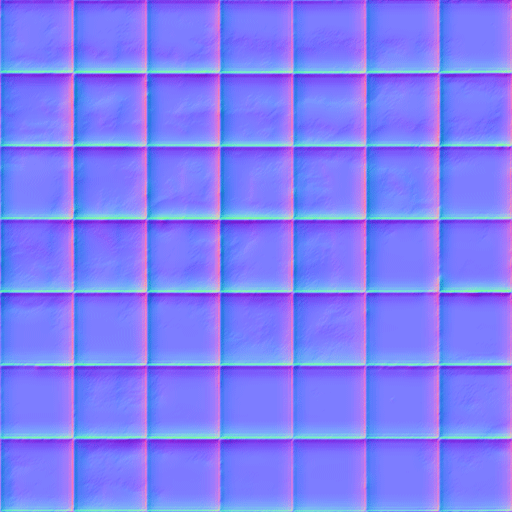
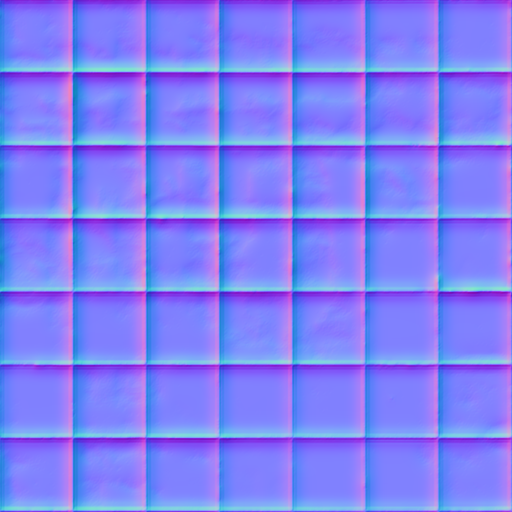
Texturing and lighting work now but the lighting calculation is wrong and was wrong in the old shader.

diff --git a/public/javascripts/domain/model/TransformMaterial.js b/public/javascripts/domain/model/TransformMaterial.js
@@ -39,8 +39,8 @@ define(["Utils", "async", "jquery"], function(Utils, Async, $) {
     _gl.bindTexture(_gl.TEXTURE_2D, texture);
     _gl.pixelStorei(_gl.UNPACK_FLIP_Y_WEBGL, true);
     _gl.texImage2D(_gl.TEXTURE_2D, 0, _gl.RGBA, _gl.RGBA, _gl.UNSIGNED_BYTE, image);
-    _gl.texParameteri(_gl.TEXTURE_2D, _gl.TEXTURE_MAG_FILTER, _gl.NEAREST);
-    _gl.texParameteri(_gl.TEXTURE_2D, _gl.TEXTURE_MIN_FILTER, _gl.LINEAR_MIPMAP_NEAREST);
+    _gl.texParameteri(_gl.TEXTURE_2D, _gl.TEXTURE_MAG_FILTER, _gl.LINEAR);
+    _gl.texParameteri(_gl.TEXTURE_2D, _gl.TEXTURE_MIN_FILTER, _gl.LINEAR_MIPMAP_LINEAR);
     _gl.generateMipmap(_gl.TEXTURE_2D);
 
     _gl.bindTexture(_gl.TEXTURE_2D, null);

diff --git a/public/javascripts/domain/scene/TraverseAndRender.js b/public/javascripts/domain/scene/TraverseAndRender.js
@@ -62,7 +62,7 @@ define(["Utils", "jquery", "MainViewModel", "GlMatrix", "TraverseScene"], functi
       _gl.vertexAttribPointer(_locations.vertexTexCoordAttributeLocation, 2, _gl.FLOAT, false, 0, 0);
 
       _gl.bindBuffer(_gl.ARRAY_BUFFER, modelNode.mesh.normals);
-      _gl.vertexAttribPointer(_locations.vertexNormalAttributeLocation, 2, _gl.FLOAT, false, 0, 0);
+      _gl.vertexAttribPointer(_locations.vertexNormalAttributeLocation, 3, _gl.FLOAT, false, 0, 0);
 
       _gl.activeTexture(_gl.TEXTURE0);
       _gl.bindTexture(_gl.TEXTURE_2D, modelNode.material.colorMap);
